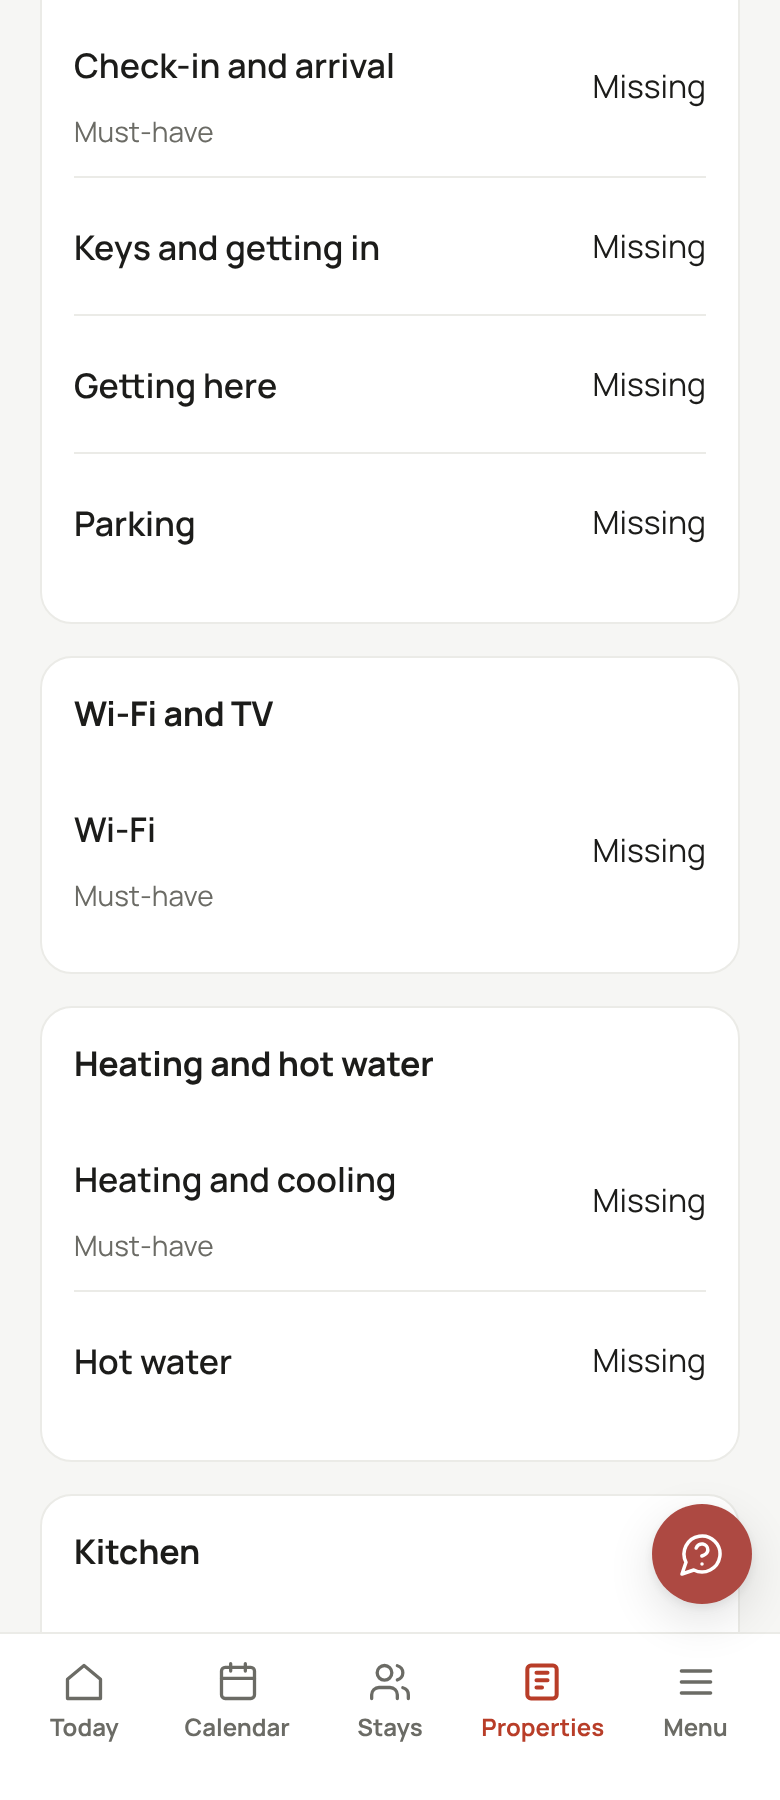
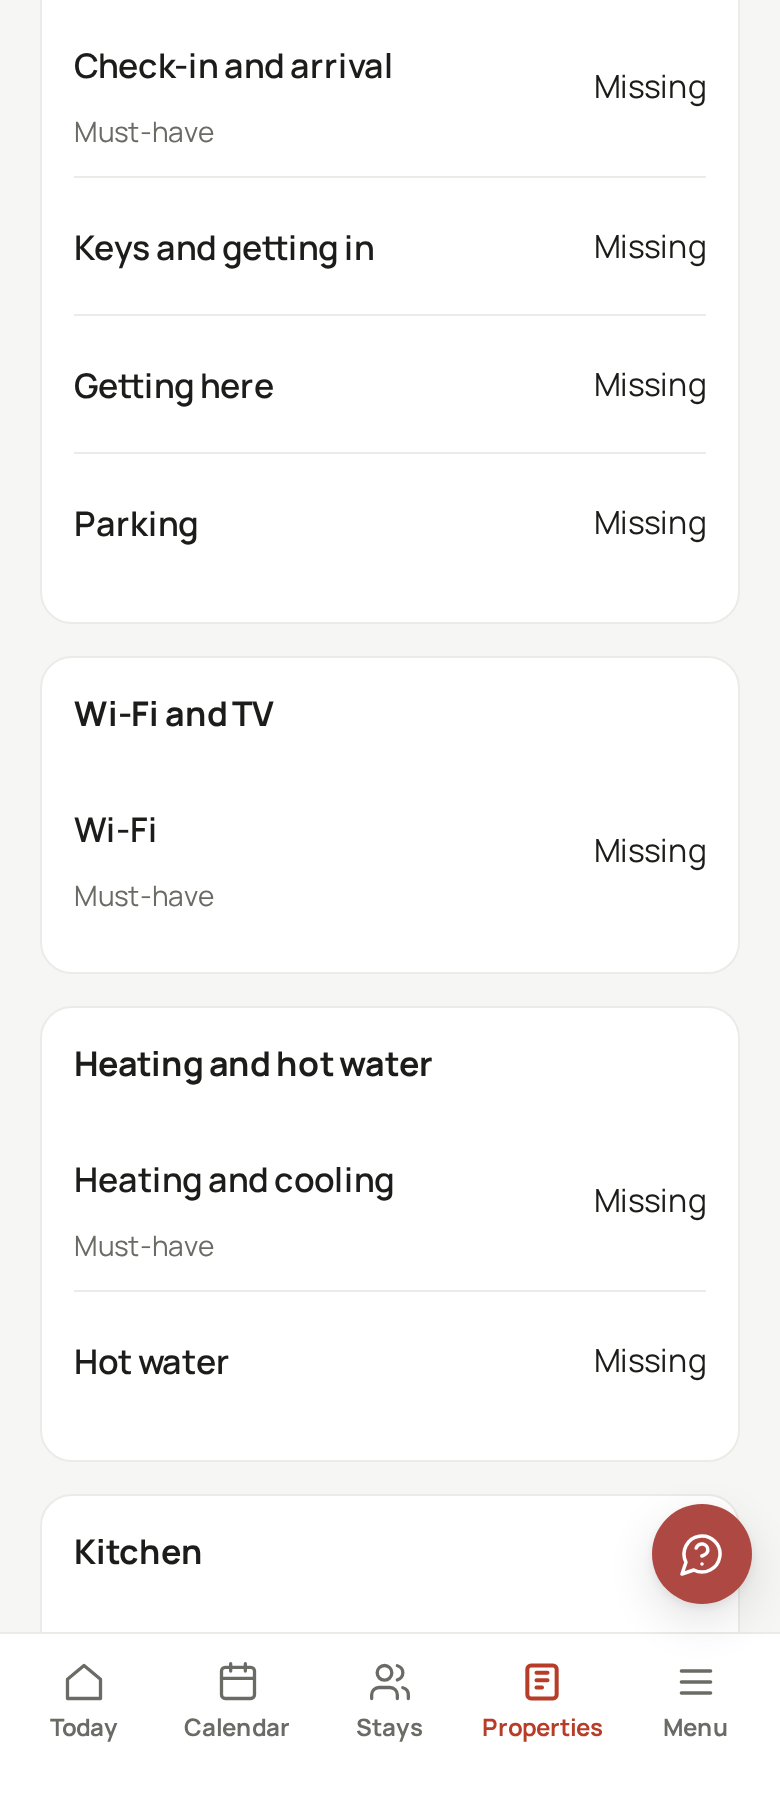
1031b: stay fee Prague forms tests; any dash folds like '-' (#829)
Claude-Session: https://claude.ai/code/session_01Cjmb7NmwKqNNoY1XVAeQbg

diff --git a/App/app/templates/guest/base.html b/App/app/templates/guest/base.html
@@ -74,7 +74,7 @@
 <script src="/static/skeleton.js?v=20261102-0509"></script>
 {# WP07: signature.js (signature pad, wizard, date of birth, PIN return) runs
    only on the form and the PIN page; those set load_signature_js. #}
-{% if load_signature_js %}<script src="/static/signature.js?v=20261108-1031"></script>{% endif %}
+{% if load_signature_js %}<script src="/static/signature.js?v=20261109-1031b"></script>{% endif %}
 <script src="/static/guest-enhancements.js?v=20261003a"></script>
 <script src="/static/csrf.js?v=20260915a"></script>
 {% if leon_url %}<script src="/static/guest-leon.js?v=20261025-0393b"></script>{% endif %}

diff --git a/App/app/static/signature.js b/App/app/static/signature.js
@@ -438,7 +438,7 @@ function initSignature() {
       }
       function key(text) {
         // 1031: same steps as stay_fee._obec_key; the tables and the pattern come from the server.
-        var t = fold(text).replace(/\s*-\s*/g, "-");
+        var t = fold(text).replace(/\s*[-\u2010-\u2015\u2212]\s*/g, "-");
         var after = new RegExp("^(?:" + rule.after + ")");
         function base(s) {
           for (var i = 0; i < rule.bases.length; i++) {

diff --git a/App/app/templates/_signature_script.html b/App/app/templates/_signature_script.html
@@ -1,2 +1,2 @@
 {#- 0139: signature.js for the host guest page; a page on host_page may not carry a script tag (design lint T1). -#}
-<script src="/static/signature.js?v=20261108-1031"></script>
+<script src="/static/signature.js?v=20261109-1031b"></script>

diff --git a/App/tests/test_stay_fee_prague_1031b.py b/App/tests/test_stay_fee_prague_1031b.py
@@ -1,0 +1,70 @@
+"""1031b: every way a Prague resident writes Prague is exempt for a Prague flat (owner, 2026-11-09).
+
+A bare district name ("Řepy") stays liable: owner decision, the guest must write the town.
+"""
+import json
+import pathlib
+import shutil
+import subprocess
+
+import pytest
+
+from app import stay_fee
+from app.routes import guest as guest_routes
+
+PRAGUE_TYPED = (
+    ["Praha", "Prague", "praha", "PRAHA", "prague", "PRAGUE", "Prag", "  Praha  "]
+    + [f"Praha {n}" for n in range(1, 23)]
+    + [f"praha {n}" for n in range(1, 23)]
+    + ["Praha 17 - Řepy", "Praha 17 - Repy", "praha 17 - repy", "PRAHA 17 - ŘEPY", "Praha 17-Řepy",
+       "Praha-Řepy", "praha-repy", "Praha - Řepy", "Praha Řepy", "Praha, Řepy", "Praha 17 (Řepy)",
+       "praha 6 – Dejvice", "Praha – Řepy", "Praha–Řepy", "Praha—Řepy", "Praha 17 – Řepy",
+       "Hlavní město Praha", "hlavni mesto praha", "HLAVNÍ MĚSTO PRAHA", "Hlavní město Praha 17",
+       "Hl. m. Praha", "hl. m. praha", "Hl.m. Praha", "Prague 17", "Prague 6 - Dejvice"]
+)
+APARTMENT_TOWNS = ["Praha", "Prague", "Hlavní město Praha", "praha"]
+NOT_PRAGUE = ["Řepy", "repy", "REPY", "Dejvice", "Brno", "Praha-východ", "Praha-západ",
+              "Kladno", "Pražmo", ""]
+
+
+@pytest.mark.parametrize("typed", PRAGUE_TYPED)
+def test_prague_forms_fold_to_praha(typed):
+    assert stay_fee._obec_key(typed) == "PRAHA"
+
+
+@pytest.mark.parametrize("town", APARTMENT_TOWNS)
+@pytest.mark.parametrize("typed", PRAGUE_TYPED)
+def test_prague_resident_is_exempt_for_a_prague_flat(town, typed):
+    guest = {"res_country": "CZE", "res_city": typed}
+    assert stay_fee.same_obec_resident(guest, {"addr_obec": town, "city_en": None})
+
+
+@pytest.mark.parametrize("town", APARTMENT_TOWNS)
+@pytest.mark.parametrize("typed", NOT_PRAGUE)
+def test_bare_district_and_other_towns_stay_liable(town, typed):
+    guest = {"res_country": "CZE", "res_city": typed}
+    assert not stay_fee.same_obec_resident(guest, {"addr_obec": town, "city_en": None})
+
+
+def test_prague_flat_from_city_en_when_addr_obec_is_empty():
+    guest = {"res_country": "CZE", "res_city": "Praha 17 - Řepy"}
+    assert stay_fee.same_obec_resident(guest, {"addr_obec": "", "city_en": "Prague"})
+
+
+def test_prague_forms_not_exempt_without_czech_residence():
+    guest = {"res_country": "SVK", "res_city": "Praha 17 - Řepy"}
+    assert not stay_fee.same_obec_resident(guest, {"addr_obec": "Praha", "city_en": None})
+
+
+def test_form_script_folds_prague_like_python():
+    """signature.js key() gives the Python answer for every Prague case (browser recount)."""
+    node = shutil.which("node") or "/opt/node22/bin/node"
+    src = (pathlib.Path(guest_routes.__file__).resolve().parents[1] / "static" / "signature.js").read_text()
+    start = src.index("function fold(text)")
+    end = src.index('var country = document.getElementById("res_country")')
+    rule = json.loads(guest_routes._fee_obec_rule({"addr_obec": "Praha"}))
+    typed = PRAGUE_TYPED + NOT_PRAGUE
+    js = ("var rule=%s;%s;console.log(JSON.stringify(%s.map(key)));"
+          % (json.dumps(rule), src[start:end], json.dumps(typed)))
+    out = subprocess.run([node, "-e", js], capture_output=True, text=True, check=True).stdout
+    assert json.loads(out) == [stay_fee._obec_key(t) for t in typed]

diff --git a/App/tests/test_guest_browser_e2e.py b/App/tests/test_guest_browser_e2e.py
@@ -1584,3 +1584,42 @@ def test_1031_unknown_property_town_shows_the_amount_and_says_why(live_server, b
         page.screenshot(path=str(SHOTS_1031 / "check-unknown-town-390.png"), full_page=True)
     finally:
         page.close()
+
+
+# --- 1031b: every Prague spelling hides the Check box for a Prague flat; a minor too -------
+
+_PRAGUE_1031B = [
+    ("Praha", True), ("Prague", True), ("praha 1", True), ("Praha 22", True), ("PRAHA 17", True),
+    ("Praha 17 - Řepy", True), ("praha 17 - repy", True), ("Praha-Řepy", True),
+    ("praha 6 – Dejvice", True), ("Praha – Řepy", True), ("Hlavní město Praha", True),
+    ("hl. m. praha", True), ("Hl. m. Praha", True),
+    ("Řepy", False),   # owner 2026-11-09: a bare district name stays liable
+    ("Brno", False),
+]
+
+
+@pytest.mark.parametrize("addr_obec, city_en", [("Praha", None), ("", "Prague")])
+def test_1031b_prague_spellings_and_minor(live_server, browser, monkeypatch, addr_obec, city_en):
+    """Prague flat (addr_obec Praha, or only city_en Prague), 3 nights x 50, Czech adult guest."""
+    token = f"browser-1031d-{secrets.token_hex(4)}"
+    page, guest, _stay = _open_1031(live_server, browser, monkeypatch, token, addr_obec,
+                                    "Praha 17 - Řepy", city_en=city_en)
+    seen = []
+    try:
+        hidden, amount, _live, _rule = _box_1031(page)
+        seen.append(("Praha 17 - Řepy", hidden, amount))
+        for city, want_hidden in _PRAGUE_1031B:
+            _change_1031(page, guest, 4, "#res_city", city)
+            hidden, amount, _live, _rule = _box_1031(page)
+            seen.append((city, hidden, amount))
+        # Minor path: Brno resident (liable as adult), born 2010 -> exempt, back to adult -> 150.
+        for birth in (_MINOR_1031, _ADULT_1031, _MINOR_1031):
+            _change_1031(page, guest, 1, "#birth_date", birth)
+            hidden, amount, _live, _rule = _box_1031(page)
+            seen.append((f"Brno born {birth[-4:]}", hidden, amount))
+        print("1031b", addr_obec or city_en, seen)
+        want = ([True] + [w for _c, w in _PRAGUE_1031B] + [True, False, True])
+        assert [s[1] for s in seen] == want, seen
+        assert all(s[2] == "150 CZK" for s, w in zip(seen, want) if not w), seen
+    finally:
+        page.close()

diff --git a/App/app/stay_fee.py b/App/app/stay_fee.py
@@ -253,7 +253,8 @@ def _suffix_base(text: str) -> Optional[str]:
 
 def _obec_key(value) -> str:
     """The town a typed name means, folded (1031 rules; signature.js key() mirrors this)."""
-    text = re.sub(r"\s*-\s*", "-", fold_text(value))
+    # Any dash (en, em, minus) counts as "-": "Praha – Řepy" = "Praha-Řepy" (1031b).
+    text = re.sub(r"\s*[-\u2010-\u2015\u2212]\s*", "-", fold_text(value))
     for prefix in OFFICIAL_PREFIXES:
         rest = text[len(prefix):].strip()
         if text.startswith(prefix) and _suffix_base(rest):

diff --git a/docs/tasks/1031b-stay-fee-prague-forms.md b/docs/tasks/1031b-stay-fee-prague-forms.md
@@ -1,0 +1,27 @@
+# 1031b Stay fee: every Prague spelling is exempt for a Prague flat; a minor too
+
+Status: review. Executor: Claude (subagent). Branch `claude/stayfee-prague-districts`.
+
+## Brief
+Owner (2026-11-09): verify that a Czech resident who writes Prague in any common form pays 0 for a
+Prague flat (apartment `addr_obec` "Praha" or only `city_en` "Prague"), and that a guest born 2010
+pays 0, also after Change on the Check step. A bare district name ("Řepy") stays liable: the guest's
+own fault (owner decision; no district alias table). Add tests; fix only a gap the tests find.
+
+## Report
+- Gap found and fixed: an en/em dash or minus sign without a number before it ("Praha – Řepy",
+  "Praha–Řepy", "Praha—Řepy") was not folded to PRAHA (only "-" was). `stay_fee._obec_key` and the
+  `signature.js` key() now treat U+2010–U+2015 and U+2212 as "-". Cache key `20261109-1031b`,
+  `tests/static_versions.json` regenerated.
+- Unit: `App/tests/test_stay_fee_prague_1031b.py`: Praha/Prague/Prag, Praha 1..22 (both cases),
+  Praha 17 - Řepy (with/without diacritics, upper/lower, en dash, comma, brackets), Praha-Řepy,
+  praha 6 – Dejvice, Hlavní město Praha, Hl. m. Praha, Prague 17, against apartment towns
+  Praha / Prague / Hlavní město Praha / praha and city_en fallback: all exempt. Řepy, repy, REPY,
+  Dejvice, Brno, Praha-východ, Praha-západ, Kladno, Pražmo, empty: liable. Non-Czech residence:
+  liable. signature.js key() equals Python for every case (node).
+- Browser (`test_1031b_prague_spellings_and_minor`, 390 px, both apartment variants): box hidden for
+  every Prague form; Řepy and Brno show 150 CZK; Brno adult -> born 2010 hidden -> 2001 shows 150
+  -> 2010 hidden again. Minors in every birth format were already covered by
+  `test_stay_fee_sametown_1031.py`.
+- Ran: `test_stay_fee*.py test_static_versions.py` 880 passed; `test_guest_browser_e2e.py -k 1031`
+  5 passed 0 skipped; `test_guest_*.py` (non-e2e) 607 passed; context lint OK.

diff --git a/docs/context/decisions.md b/docs/context/decisions.md
@@ -68,3 +68,4 @@ Append-only.
 - 2026-11-07 [owner] request-to-book: direct rails (IBAN/Revolut/cash) vs or beside Stripe; 24h hold; host confirms (0996-0998).
 - 2026-11-07 | [backup] Litestream retired; S3 replica kept | owner | [1021](../tasks/1021-remove-litestream.md)
 - 2026-11-07 | [backup] WAL-G: WAL archive + PITR to S3 | owner | [1022](../tasks/1022-walg-continuous-archiving.md)
+- 2026-11-09 [stay-fee] 1031b: a bare Prague/Brno district name ("Řepy") stays liable; the guest must write the town (owner). Any Unicode dash folds like "-" in the obec key.
